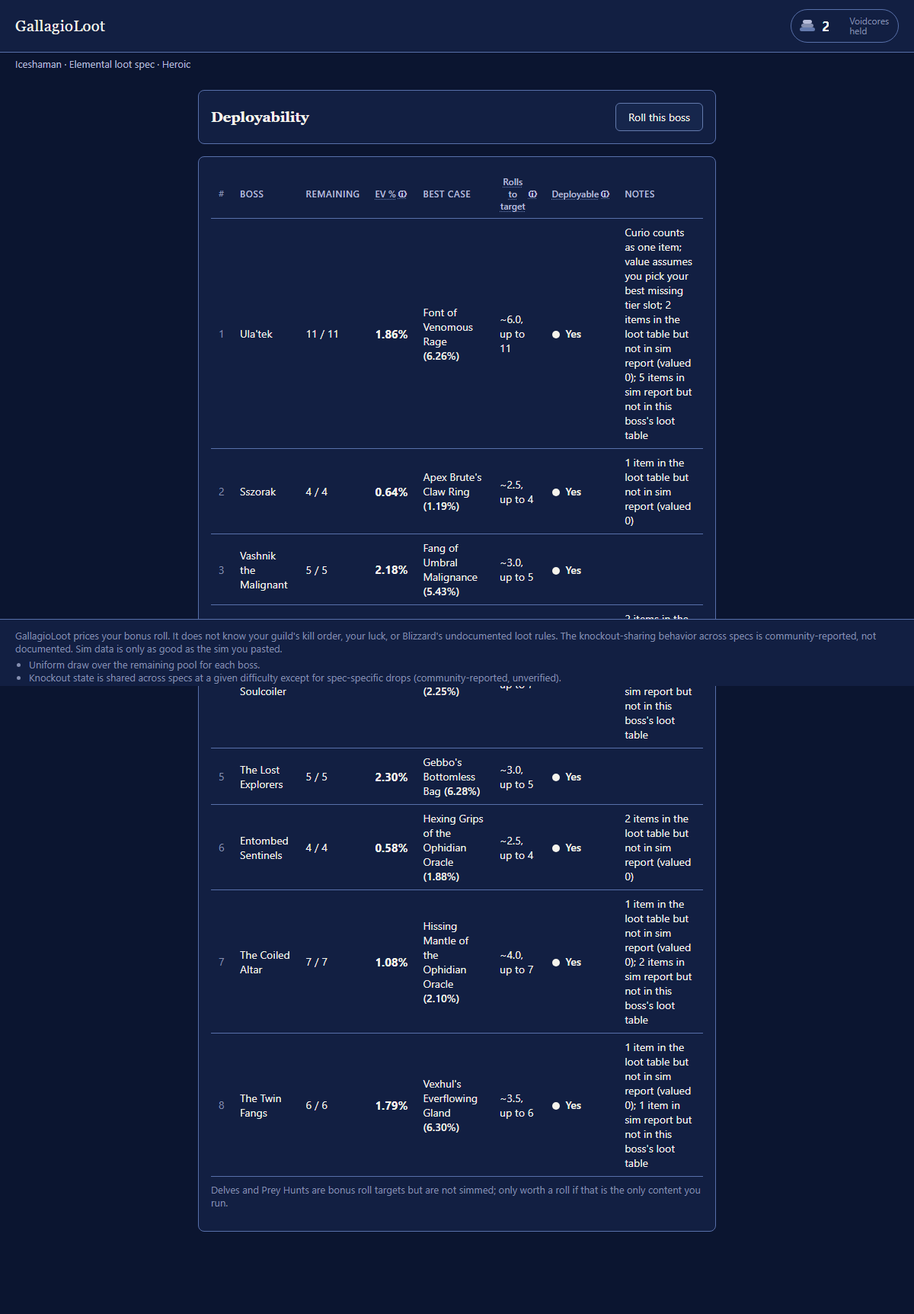
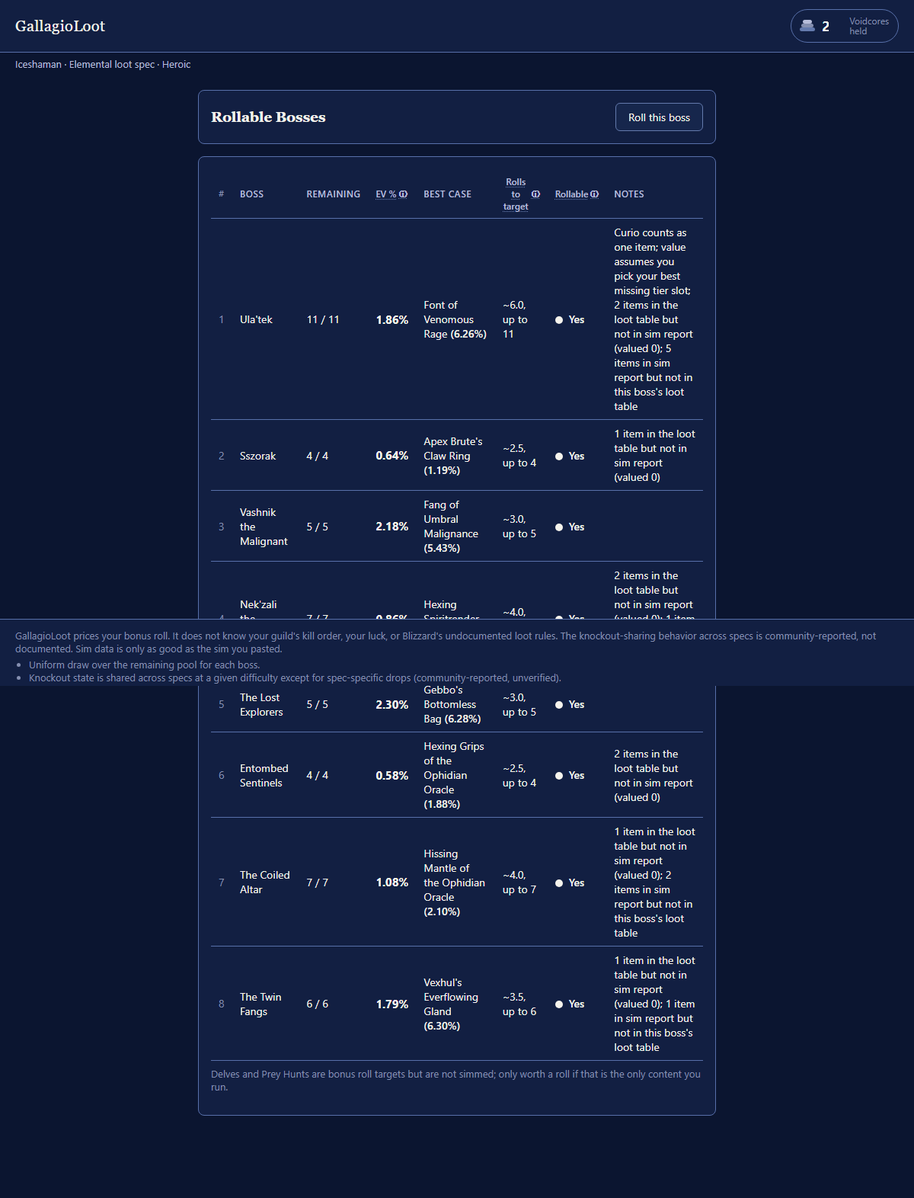
feat(web): rename "deployable" vocabulary to "rollable" in user-facing text
Players think in terms of rolling a boss, not deploying one. Renames screen
title ("Deployability" -> "Rollable Bosses"), table column header, glossary
tooltip term/copy, and doc prose in README describing the same concept.
BossEval.deployable and all internal identifiers/CSS classes are unchanged
for stability; a comment now calls that out at the field.

diff --git a/web/design/deployability-screen.html b/web/design/deployability-screen.html
@@ -2,7 +2,7 @@
 <html lang="en">
 <head>
 <meta charset="UTF-8" />
-<title>GallagioLoot -- Deployability</title>
+<title>GallagioLoot -- Rollable Bosses</title>
 <style>
 :root {
   --bg-base: #0b1530;
@@ -679,7 +679,7 @@ tr.excluded .deploy-table__ev {
 <header class="app-header"><span class="app-header__brand">GallagioLoot</span><div style="display:flex;align-items:center;gap:12px"><label class="voidcore-pill" aria-label="Voidcores held: 2"><svg width="22" height="18" viewBox="0 0 22 18" xmlns="http://www.w3.org/2000/svg" aria-label="2 Voidcores"><rect x="1" y="11" width="20" height="5" rx="2.5" class="chip-stack__bar"></rect><rect x="3" y="6" width="16" height="5" rx="2.5" class="chip-stack__bar chip-stack__bar--mid"></rect><rect x="5" y="1" width="12" height="5" rx="2.5" class="chip-stack__bar chip-stack__bar--top"></rect></svg><input type="number" min="0" class="voidcore-pill__input num" aria-label="Voidcore count" value="2"/><span class="voidcore-pill__label" aria-hidden="true">Voidcores<br/>held</span></label></div></header>
 <div class="app-header__meta" style="padding:6px 20px">Iceshaman · Elemental loot spec · Heroic</div>
 <main class="app-main">
-<div><div class="panel" style="display:flex;justify-content:space-between;align-items:center"><h3>Deployability</h3><button type="button" class="btn">Roll this boss</button></div><div class="panel"><table class="deploy-table"><thead><tr><th class="deploy-table__rank">#</th><th>Boss</th><th class="num">Remaining</th><th class="num"><span class="tooltip-wrap"><button type="button" class="tooltip-trigger">EV %<span class="tooltip-icon" aria-hidden="true">ⓘ</span></button></span></th><th>Best case</th><th class="num"><span class="tooltip-wrap"><button type="button" class="tooltip-trigger">Rolls to target<span class="tooltip-icon" aria-hidden="true">ⓘ</span></button></span></th><th><span class="tooltip-wrap"><button type="button" class="tooltip-trigger">Deployable<span class="tooltip-icon" aria-hidden="true">ⓘ</span></button></span></th><th>Notes</th></tr></thead><tbody><tr><td class="deploy-table__rank" data-label="#">1</td><td data-label="Boss">Ula&#x27;tek</td><td class="num" data-label="Remaining">11 / 11</td><td class="num deploy-table__ev" data-label="EV %">1.86%</td><td data-label="Best case">Font of Venomous Rage <span class="num" style="font-weight:600">(6.26%)</span></td><td class="num" data-label="Rolls to target">~6.0, up to 11</td><td data-label="Deployable"><span class="deploy-indicator"><span class="deploy-dot deploy-dot--yes" aria-hidden="true"></span>Yes</span></td><td data-label="Notes">Curio counts as one item; value assumes you pick your best missing tier slot; 2 items in the loot table but not in sim report (valued 0); 5 items in sim report but not in this boss&#x27;s loot table</td></tr><tr><td class="deploy-table__rank" data-label="#">2</td><td data-label="Boss">Sszorak</td><td class="num" data-label="Remaining">4 / 4</td><td class="num deploy-table__ev" data-label="EV %">0.64%</td><td data-label="Best case">Apex Brute&#x27;s Claw Ring <span class="num" style="font-weight:600">(1.19%)</span></td><td class="num" data-label="Rolls to target">~2.5, up to 4</td><td data-label="Deployable"><span class="deploy-indicator"><span class="deploy-dot deploy-dot--yes" aria-hidden="true"></span>Yes</span></td><td data-label="Notes">1 item in the loot table but not in sim report (valued 0)</td></tr><tr><td class="deploy-table__rank" data-label="#">3</td><td data-label="Boss">Vashnik the Malignant</td><td class="num" data-label="Remaining">5 / 5</td><td class="num deploy-table__ev" data-label="EV %">2.18%</td><td data-label="Best case">Fang of Umbral Malignance <span class="num" style="font-weight:600">(5.43%)</span></td><td class="num" data-label="Rolls to target">~3.0, up to 5</td><td data-label="Deployable"><span class="deploy-indicator"><span class="deploy-dot deploy-dot--yes" aria-hidden="true"></span>Yes</span></td><td data-label="Notes"></td></tr><tr><td class="deploy-table__rank" data-label="#">4</td><td data-label="Boss">Nek&#x27;zali the Soulcoiler</td><td class="num" data-label="Remaining">7 / 7</td><td class="num deploy-table__ev" data-label="EV %">0.86%</td><td data-label="Best case">Hexing Spiritrender <span class="num" style="font-weight:600">(2.25%)</span></td><td class="num" data-label="Rolls to target">~4.0, up to 7</td><td data-label="Deployable"><span class="deploy-indicator"><span class="deploy-dot deploy-dot--yes" aria-hidden="true"></span>Yes</span></td><td data-label="Notes">2 items in the loot table but not in sim report (valued 0); 1 item in sim report but not in this boss&#x27;s loot table</td></tr><tr><td class="deploy-table__rank" data-label="#">5</td><td data-label="Boss">The Lost Explorers</td><td class="num" data-label="Remaining">5 / 5</td><td class="num deploy-table__ev" data-label="EV %">2.30%</td><td data-label="Best case">Gebbo&#x27;s Bottomless Bag <span class="num" style="font-weight:600">(6.28%)</span></td><td class="num" data-label="Rolls to target">~3.0, up to 5</td><td data-label="Deployable"><span class="deploy-indicator"><span class="deploy-dot deploy-dot--yes" aria-hidden="true"></span>Yes</span></td><td data-label="Notes"></td></tr><tr><td class="deploy-table__rank" data-label="#">6</td><td data-label="Boss">Entombed Sentinels</td><td class="num" data-label="Remaining">4 / 4</td><td class="num deploy-table__ev" data-label="EV %">0.58%</td><td data-label="Best case">Hexing Grips of the Ophidian Oracle <span class="num" style="font-weight:600">(1.88%)</span></td><td class="num" data-label="Rolls to target">~2.5, up to 4</td><td data-label="Deployable"><span class="deploy-indicator"><span class="deploy-dot deploy-dot--yes" aria-hidden="true"></span>Yes</span></td><td data-label="Notes">2 items in the loot table but not in sim report (valued 0)</td></tr><tr><td class="deploy-table__rank" data-label="#">7</td><td data-label="Boss">The Coiled Altar</td><td class="num" data-label="Remaining">7 / 7</td><td class="num deploy-table__ev" data-label="EV %">1.08%</td><td data-label="Best case">Hissing Mantle of the Ophidian Oracle <span class="num" style="font-weight:600">(2.10%)</span></td><td class="num" data-label="Rolls to target">~4.0, up to 7</td><td data-label="Deployable"><span class="deploy-indicator"><span class="deploy-dot deploy-dot--yes" aria-hidden="true"></span>Yes</span></td><td data-label="Notes">1 item in the loot table but not in sim report (valued 0); 2 items in sim report but not in this boss&#x27;s loot table</td></tr><tr><td class="deploy-table__rank" data-label="#">8</td><td data-label="Boss">The Twin Fangs</td><td class="num" data-label="Remaining">6 / 6</td><td class="num deploy-table__ev" data-label="EV %">1.79%</td><td data-label="Best case">Vexhul&#x27;s Everflowing Gland <span class="num" style="font-weight:600">(6.30%)</span></td><td class="num" data-label="Rolls to target">~3.5, up to 6</td><td data-label="Deployable"><span class="deploy-indicator"><span class="deploy-dot deploy-dot--yes" aria-hidden="true"></span>Yes</span></td><td data-label="Notes">1 item in the loot table but not in sim report (valued 0); 1 item in sim report but not in this boss&#x27;s loot table</td></tr></tbody></table><p class="note-line">Delves and Prey Hunts are bonus roll targets but are not simmed; only worth a roll if that is the only content you run.</p></div></div>
+<div><div class="panel" style="display:flex;justify-content:space-between;align-items:center"><h3>Rollable Bosses</h3><button type="button" class="btn">Roll this boss</button></div><div class="panel"><table class="deploy-table"><thead><tr><th class="deploy-table__rank">#</th><th>Boss</th><th class="num">Remaining</th><th class="num"><span class="tooltip-wrap"><button type="button" class="tooltip-trigger">EV %<span class="tooltip-icon" aria-hidden="true">ⓘ</span></button></span></th><th>Best case</th><th class="num"><span class="tooltip-wrap"><button type="button" class="tooltip-trigger">Rolls to target<span class="tooltip-icon" aria-hidden="true">ⓘ</span></button></span></th><th><span class="tooltip-wrap"><button type="button" class="tooltip-trigger">Rollable<span class="tooltip-icon" aria-hidden="true">ⓘ</span></button></span></th><th>Notes</th></tr></thead><tbody><tr><td class="deploy-table__rank" data-label="#">1</td><td data-label="Boss">Ula&#x27;tek</td><td class="num" data-label="Remaining">11 / 11</td><td class="num deploy-table__ev" data-label="EV %">1.86%</td><td data-label="Best case">Font of Venomous Rage <span class="num" style="font-weight:600">(6.26%)</span></td><td class="num" data-label="Rolls to target">~6.0, up to 11</td><td data-label="Rollable"><span class="deploy-indicator"><span class="deploy-dot deploy-dot--yes" aria-hidden="true"></span>Yes</span></td><td data-label="Notes">Curio counts as one item; value assumes you pick your best missing tier slot; 2 items in the loot table but not in sim report (valued 0); 5 items in sim report but not in this boss&#x27;s loot table</td></tr><tr><td class="deploy-table__rank" data-label="#">2</td><td data-label="Boss">Sszorak</td><td class="num" data-label="Remaining">4 / 4</td><td class="num deploy-table__ev" data-label="EV %">0.64%</td><td data-label="Best case">Apex Brute&#x27;s Claw Ring <span class="num" style="font-weight:600">(1.19%)</span></td><td class="num" data-label="Rolls to target">~2.5, up to 4</td><td data-label="Rollable"><span class="deploy-indicator"><span class="deploy-dot deploy-dot--yes" aria-hidden="true"></span>Yes</span></td><td data-label="Notes">1 item in the loot table but not in sim report (valued 0)</td></tr><tr><td class="deploy-table__rank" data-label="#">3</td><td data-label="Boss">Vashnik the Malignant</td><td class="num" data-label="Remaining">5 / 5</td><td class="num deploy-table__ev" data-label="EV %">2.18%</td><td data-label="Best case">Fang of Umbral Malignance <span class="num" style="font-weight:600">(5.43%)</span></td><td class="num" data-label="Rolls to target">~3.0, up to 5</td><td data-label="Rollable"><span class="deploy-indicator"><span class="deploy-dot deploy-dot--yes" aria-hidden="true"></span>Yes</span></td><td data-label="Notes"></td></tr><tr><td class="deploy-table__rank" data-label="#">4</td><td data-label="Boss">Nek&#x27;zali the Soulcoiler</td><td class="num" data-label="Remaining">7 / 7</td><td class="num deploy-table__ev" data-label="EV %">0.86%</td><td data-label="Best case">Hexing Spiritrender <span class="num" style="font-weight:600">(2.25%)</span></td><td class="num" data-label="Rolls to target">~4.0, up to 7</td><td data-label="Rollable"><span class="deploy-indicator"><span class="deploy-dot deploy-dot--yes" aria-hidden="true"></span>Yes</span></td><td data-label="Notes">2 items in the loot table but not in sim report (valued 0); 1 item in sim report but not in this boss&#x27;s loot table</td></tr><tr><td class="deploy-table__rank" data-label="#">5</td><td data-label="Boss">The Lost Explorers</td><td class="num" data-label="Remaining">5 / 5</td><td class="num deploy-table__ev" data-label="EV %">2.30%</td><td data-label="Best case">Gebbo&#x27;s Bottomless Bag <span class="num" style="font-weight:600">(6.28%)</span></td><td class="num" data-label="Rolls to target">~3.0, up to 5</td><td data-label="Rollable"><span class="deploy-indicator"><span class="deploy-dot deploy-dot--yes" aria-hidden="true"></span>Yes</span></td><td data-label="Notes"></td></tr><tr><td class="deploy-table__rank" data-label="#">6</td><td data-label="Boss">Entombed Sentinels</td><td class="num" data-label="Remaining">4 / 4</td><td class="num deploy-table__ev" data-label="EV %">0.58%</td><td data-label="Best case">Hexing Grips of the Ophidian Oracle <span class="num" style="font-weight:600">(1.88%)</span></td><td class="num" data-label="Rolls to target">~2.5, up to 4</td><td data-label="Rollable"><span class="deploy-indicator"><span class="deploy-dot deploy-dot--yes" aria-hidden="true"></span>Yes</span></td><td data-label="Notes">2 items in the loot table but not in sim report (valued 0)</td></tr><tr><td class="deploy-table__rank" data-label="#">7</td><td data-label="Boss">The Coiled Altar</td><td class="num" data-label="Remaining">7 / 7</td><td class="num deploy-table__ev" data-label="EV %">1.08%</td><td data-label="Best case">Hissing Mantle of the Ophidian Oracle <span class="num" style="font-weight:600">(2.10%)</span></td><td class="num" data-label="Rolls to target">~4.0, up to 7</td><td data-label="Rollable"><span class="deploy-indicator"><span class="deploy-dot deploy-dot--yes" aria-hidden="true"></span>Yes</span></td><td data-label="Notes">1 item in the loot table but not in sim report (valued 0); 2 items in sim report but not in this boss&#x27;s loot table</td></tr><tr><td class="deploy-table__rank" data-label="#">8</td><td data-label="Boss">The Twin Fangs</td><td class="num" data-label="Remaining">6 / 6</td><td class="num deploy-table__ev" data-label="EV %">1.79%</td><td data-label="Best case">Vexhul&#x27;s Everflowing Gland <span class="num" style="font-weight:600">(6.30%)</span></td><td class="num" data-label="Rolls to target">~3.5, up to 6</td><td data-label="Rollable"><span class="deploy-indicator"><span class="deploy-dot deploy-dot--yes" aria-hidden="true"></span>Yes</span></td><td data-label="Notes">1 item in the loot table but not in sim report (valued 0); 1 item in sim report but not in this boss&#x27;s loot table</td></tr></tbody></table><p class="note-line">Delves and Prey Hunts are bonus roll targets but are not simmed; only worth a roll if that is the only content you run.</p></div></div>
 </main>
 <footer class="app-footer" tabindex="0"><p>GallagioLoot prices your bonus roll. It does not know your guild&#x27;s kill order, your luck, or Blizzard&#x27;s undocumented loot rules. The knockout-sharing behavior across specs is community-reported, not documented. Sim data is only as good as the sim you pasted.</p><ul><li>Uniform draw over the remaining pool for each boss.</li><li>Knockout state is shared across specs at a given difficulty except for spec-specific drops (community-reported, unverified).</li><li>Knockout state is not shared across difficulties.</li><li>Rolls award at Great Vault item level, as reflected by the source report.</li><li>Delves and Prey Hunts are not simmed and are excluded from consideration.</li><li>A boss offers a bonus roll only on its first kill at this difficulty this week; decide at the kill, there is no second chance on a repeat kill.</li><li>Ranking is limited to bosses you expect to kill this week.</li></ul></footer>
 </div>

diff --git a/web/src/components/DeployabilityScreen.tsx b/web/src/components/DeployabilityScreen.tsx
@@ -20,7 +20,7 @@ export function DeployabilityScreen(props: {
   return (
     <div>
       <div className="panel" style={{ display: 'flex', justifyContent: 'space-between', alignItems: 'center' }}>
-        <h3>Deployability</h3>
+        <h3>Rollable Bosses</h3>
         <button type="button" className="btn" onClick={onViewRecommendation}>
           Roll this boss
         </button>
@@ -41,7 +41,7 @@ export function DeployabilityScreen(props: {
                 <Tooltip term="rollsToTarget">Rolls to target</Tooltip>
               </th>
               <th>
-                <Tooltip term="deployable">Deployable</Tooltip>
+                <Tooltip term="deployable">Rollable</Tooltip>
               </th>
               <th>Notes</th>
             </tr>
@@ -85,7 +85,7 @@ export function DeployabilityScreen(props: {
                       ? `~${b.bestCase.rollsToTargetExpected.toFixed(1)}, up to ${b.bestCase.rollsToTargetWorst}`
                       : '—'}
                   </td>
-                  <td data-label="Deployable">
+                  <td data-label="Rollable">
                     <span className="deploy-indicator">
                       <span className={b.deployable ? 'deploy-dot deploy-dot--yes' : 'deploy-dot deploy-dot--no'} aria-hidden="true" />
                       {b.deployable ? 'Yes' : (

diff --git a/web/src/lib/glossary.ts b/web/src/lib/glossary.ts
@@ -21,8 +21,8 @@ export const GLOSSARY: Record<GlossaryTerm, { label: string; copy: string }> = {
     copy: 'These bosses are within sim noise of each other. Roll whichever you kill first.',
   },
   deployable: {
-    label: 'Deployable',
-    copy: 'A boss you expect to kill this week whose EV clears the threshold.',
+    label: 'Rollable',
+    copy: 'A boss you expect to kill this week whose expected gain clears your threshold. Worth a Voidcore.',
   },
   knockout: {
     label: 'Knockout',

diff --git a/src/core/types.ts b/src/core/types.ts
@@ -95,6 +95,7 @@ export type BossEval = {
   ev: number
   evPct: number
   bestCase: PoolEntry | null
+  /** UI vocabulary is "rollable"; the field name is kept for stability. */
   deployable: boolean
   notes: string[]
   /** Mean of the remaining pool's `errorPct` values, where known -- the boss-level sim error used for toss-up detection. Undefined when no remaining entry carries an error (e.g. QE Live). */

diff --git a/web/design/renderScreens.tsx b/web/design/renderScreens.tsx
@@ -113,7 +113,7 @@ const pages: Array<{ name: string; html: string }> = [
   {
     name: 'deployability',
     html: shellHtml(
-      'Deployability',
+      'Rollable Bosses',
       renderToStaticMarkup(createElement(DeployabilityScreen, { bossEvals, thresholdPct: settings.thresholdPct, onViewRecommendation: noop }))
     ),
   },

diff --git a/README.md b/README.md
@@ -250,11 +250,11 @@ A Voidcore is spent on a specific boss **on its first kill per difficulty per we
 - **EV**: `ev` is the uniform-draw mean over the boss's remaining (non-knocked-out) pool; `evPct = ev / baseline * 100`. A boss is `deployable` when it has a remaining pool, `evPct >= thresholdPct` (default `0.2`, i.e. 0.2% of baseline — low by design, since with an empty knockout state almost every boss clears it; the threshold mostly bites once a character has knocked out most of a boss's upgrades), and — if `settings.expectedKills` is set — its encounter id is in that list.
 - **Expected kills** (`settings.expectedKills?: number[]`): optional list of encounter ids the player expects to kill this week. Undefined (the default) means every boss in the report is in play. When set, a boss whose encounter id isn't listed is still evaluated — it still shows up in the per-boss table with its real `ev`/`evPct` — but is forced `deployable: false` with a note (`"not in expected kills this week"`) and excluded from allocation. This is the intended way to scope a report down to one raid instance's bosses, or to a subset of a week's planned clears; see the "Ninth boss" note below for why a QE Live report can otherwise span more bosses than one instance actually has.
 - **Allocation** (`recommend` in `src/core/rank.ts`):
-  - 1 roll: pick the deployable boss with the highest `ev` (ties: highest `bestCase` value, then encounter order).
-  - 2 rolls (from season week 8 on — the caller supplies `rollsAvailable`, this code never computes it from dates): since a boss only offers its bonus roll on the first kill, the two rolls must land on two *distinct* bosses — the top two deployable bosses by `ev` (same tie-break as above). There is no same-boss-twice case to weigh against it.
-  - If no boss is deployable, `allocations` is empty and `fallback` explains why (`'below-threshold'` vs `'no-pool'`) with a message suggesting the Great Vault's Thalassian Tokens of Merit instead — exported as `fallbackMessage()` so a frontend can override the copy.
+  - 1 roll: pick the rollable boss with the highest `ev` (ties: highest `bestCase` value, then encounter order).
+  - 2 rolls (from season week 8 on — the caller supplies `rollsAvailable`, this code never computes it from dates): since a boss only offers its bonus roll on the first kill, the two rolls must land on two *distinct* bosses — the top two rollable bosses by `ev` (same tie-break as above). There is no same-boss-twice case to weigh against it.
+  - If no boss is rollable, `allocations` is empty and `fallback` explains why (`'below-threshold'` vs `'no-pool'`) with a message suggesting the Great Vault's Thalassian Tokens of Merit instead — exported as `fallbackMessage()` so a frontend can override the copy.
   - `assumptions` always lists the modeling assumptions above — including the unverified cross-spec knockout sharing, the first-kill-only bonus roll, and that ranking is limited to bosses you expect to kill this week — regardless of whether a recommendation was possible.
-  - **Toss-up detection**: `recommend()` also compares the boundary of its allocation against the next-best deployable boss — rank 1 vs rank 2 for `rollsAvailable: 1`, or rank 2 vs rank 3 for `rollsAvailable: 2` (since both of the first two rolls are allocated regardless of how close they are to each other). When the gap is small enough to be sim noise rather than a real ranking, `Recommendation.tossUp` is set to `{ bosses: [name, name], gapPct }`; otherwise it's `null`. The allocation itself is unaffected — a toss-up only annotates the recommendation, it never changes which boss gets the roll. "Small enough" (`isTossUpGap` in `src/core/tossup.ts`, shared with `compareVault`'s own toss-up verdict) means either:
+  - **Toss-up detection**: `recommend()` also compares the boundary of its allocation against the next-best rollable boss — rank 1 vs rank 2 for `rollsAvailable: 1`, or rank 2 vs rank 3 for `rollsAvailable: 2` (since both of the first two rolls are allocated regardless of how close they are to each other). When the gap is small enough to be sim noise rather than a real ranking, `Recommendation.tossUp` is set to `{ bosses: [name, name], gapPct }`; otherwise it's `null`. The allocation itself is unaffected — a toss-up only annotates the recommendation, it never changes which boss gets the roll. "Small enough" (`isTossUpGap` in `src/core/tossup.ts`, shared with `compareVault`'s own toss-up verdict) means either:
     - the gap is inside a fixed band, `max(0.1, 5% of the boundary boss's evPct)`; or
     - both bosses carry a per-boss sim error (`BossEval.evErrorPct`, only ever set for Raidbots reports — see below) and the gap is smaller than their *combined* error.
 
@@ -269,7 +269,7 @@ The player faces a Great Vault choice each week: take a specific vault item outr
 - **`rollsToTarget(pool, entryKey, thresholdValue)`**: with knockout, a roll is a uniform draw *without replacement* from the remaining pool, so the expected number of rolls to land one specific entry in a pool of `n` remaining is `(n+1)/2` and the worst case is `n` (standard without-replacement rank argument). It also computes a threshold-truncated version: the expected number of rolls a player would *actually* spend hunting the target, given they'd abandon the pool once — after a miss — its remaining mean value (over the entries still left, target included) falls below `thresholdValue` (absolute, `thresholdPct/100 × baseline`). The truncated case is computed exactly via a recurrence over remaining subsets (memoized on the subset's sorted keys), not simulation — each state's continuation depends only on which entries remain, not the draw order that got there — and cross-checked in tests against brute-force enumeration of all removal orders on a 4-item pool. Every non-knocked-out `PoolEntry` on a `BossEval` carries its own `rollsToTargetExpected`/`rollsToTargetWorst`/`rollsToTargetTruncated`, computed against that boss's remaining pool, so a frontend can show "about K rolls to land this" for any item.
 - **`compareVault({ vaultItem, bossEvals, recommendation, settings, report })`**: returns a `VaultDecision`.
   - **Voidcore option**: `voidcoreGainPct = recommendation.totalExpectedGainPct` (for `settings.rollsAvailable` rolls).
-  - **Vault item option**: `vaultItemGainPct = vaultItem.gainPct + savedRolls × altRollEvPct`. `savedRolls` is the `expectedTruncated` rolls to hit that item via bonus roll, if its loot pool is identifiable — matched by `itemId` against a `PoolEntry` across all bosses first, falling back to `encounterId` against a whole `BossEval` (using its `bestCase` entry as the target, since the vault item may represent a whole dungeon/boss's reward rather than one specific item) — capped at the pool's remaining count; if no pool is identifiable, `savedRolls = 0` with a note. `altRollEvPct` is the `evPct` of the best deployable boss *other than* the vault item's own pool (`0` if none).
+  - **Vault item option**: `vaultItemGainPct = vaultItem.gainPct + savedRolls × altRollEvPct`. `savedRolls` is the `expectedTruncated` rolls to hit that item via bonus roll, if its loot pool is identifiable — matched by `itemId` against a `PoolEntry` across all bosses first, falling back to `encounterId` against a whole `BossEval` (using its `bestCase` entry as the target, since the vault item may represent a whole dungeon/boss's reward rather than one specific item) — capped at the pool's remaining count; if no pool is identifiable, `savedRolls = 0` with a note. `altRollEvPct` is the `evPct` of the best rollable boss *other than* the vault item's own pool (`0` if none).
   - **Verdict**: `'tokens'` when neither option clears `thresholdPct`; else `'toss-up'` when `|voidcoreGainPct − vaultItemGainPct| < max(0.1, 10% of the larger)` (with a note to prefer the vault item on a toss-up if it removes a dungeon from the weekly farm); else `'vault'` or `'voidcore'`, whichever is larger.
   - Returns both option values, `savedRolls`, the verdict, a one-sentence `explanation`, and any `notes` (warnings, the toss-up tip).
 
@@ -277,7 +277,7 @@ The player faces a Great Vault choice each week: take a specific vault item outr
 
 `npm run test:live` (via `test/core.integration.test.ts`) runs the full pipeline — normalize → `buildBossPools` → `recommend` — against both live fixture reports with an empty knockout state at the default 0.2% threshold, for 1 and 2 rolls, and prints the per-boss table. With no knockouts yet, every boss in both reports clears the threshold, and the 2-roll allocation always lands on the top two distinct bosses by `ev`.
 
-**"Ninth boss" investigation (2026-09-08):** a live QE Live run (report `wzfyzqxqjqej`) was seen reporting 9 deployable bosses for The Venomous Abyss (instance 1320), which only has 8. The 9th was `2849` "Nymrissa Wavecaller" — a real boss, correctly resolved by `pickBestSource` (not a Dungeon/Delves leak, not a tier-token misattachment), but belonging to a *different* raid instance (`1317`, "The Tidebound Grotto"). QE Live's "Raid" `dropLoc` rows span every raid instance active in the current tier, not just one, while the Raidbots normalizer's reports (and the schema's singular `NormalizedReport.instanceId`) assume one instance per report. `normalizeQELiveReport` now resolves every row first, tallies instances across all of them (not just the tier-fallback rows, which is all the old code tallied), keeps only the rows matching the dominant (most-represented) instance, and sets `instanceId`/`instanceName` on the report from that — excluded rows are counted in a warning. Combine this with `settings.expectedKills` to scope a report down further (e.g. to just the bosses you're actually killing this week within that instance).
+**"Ninth boss" investigation (2026-09-08):** a live QE Live run (report `wzfyzqxqjqej`) was seen reporting 9 rollable bosses for The Venomous Abyss (instance 1320), which only has 8. The 9th was `2849` "Nymrissa Wavecaller" — a real boss, correctly resolved by `pickBestSource` (not a Dungeon/Delves leak, not a tier-token misattachment), but belonging to a *different* raid instance (`1317`, "The Tidebound Grotto"). QE Live's "Raid" `dropLoc` rows span every raid instance active in the current tier, not just one, while the Raidbots normalizer's reports (and the schema's singular `NormalizedReport.instanceId`) assume one instance per report. `normalizeQELiveReport` now resolves every row first, tallies instances across all of them (not just the tier-fallback rows, which is all the old code tallied), keeps only the rows matching the dominant (most-represented) instance, and sets `instanceId`/`instanceName` on the report from that — excluded rows are counted in a warning. Combine this with `settings.expectedKills` to scope a report down further (e.g. to just the bosses you're actually killing this week within that instance).
 
 ## Local development
 
